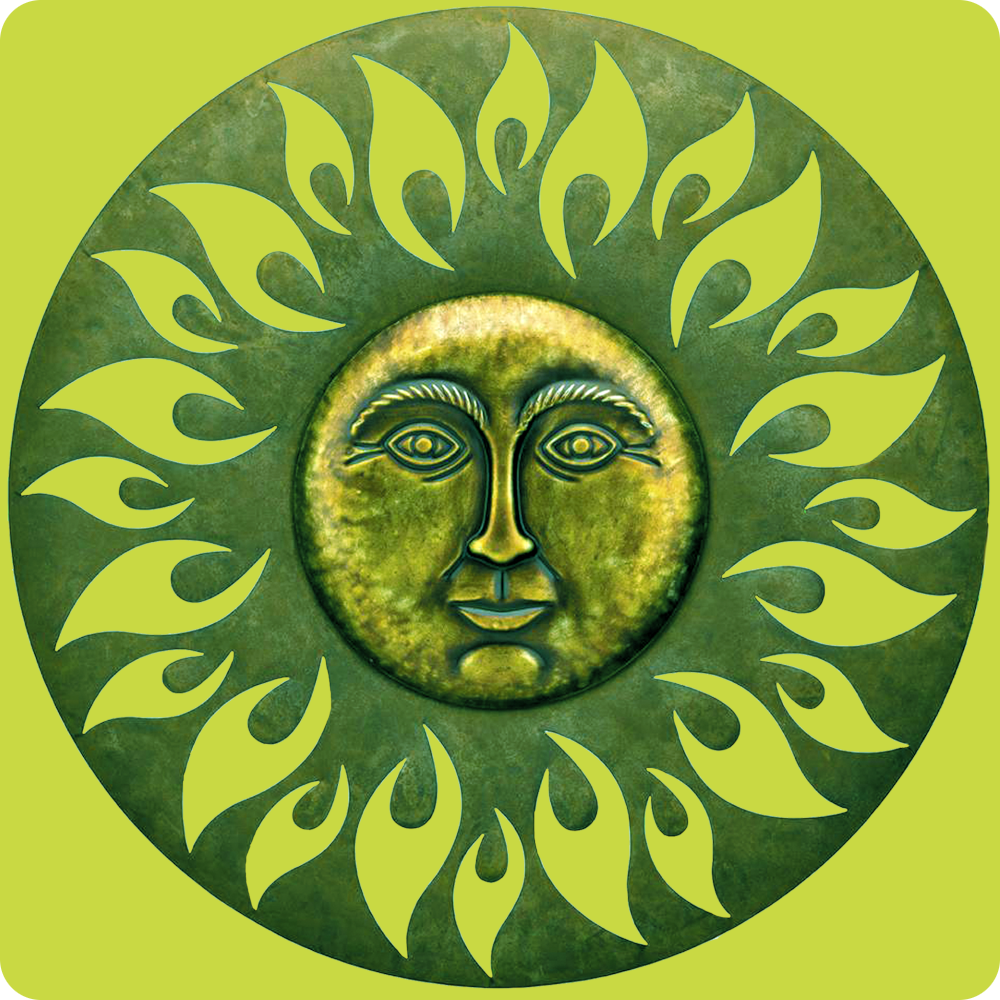
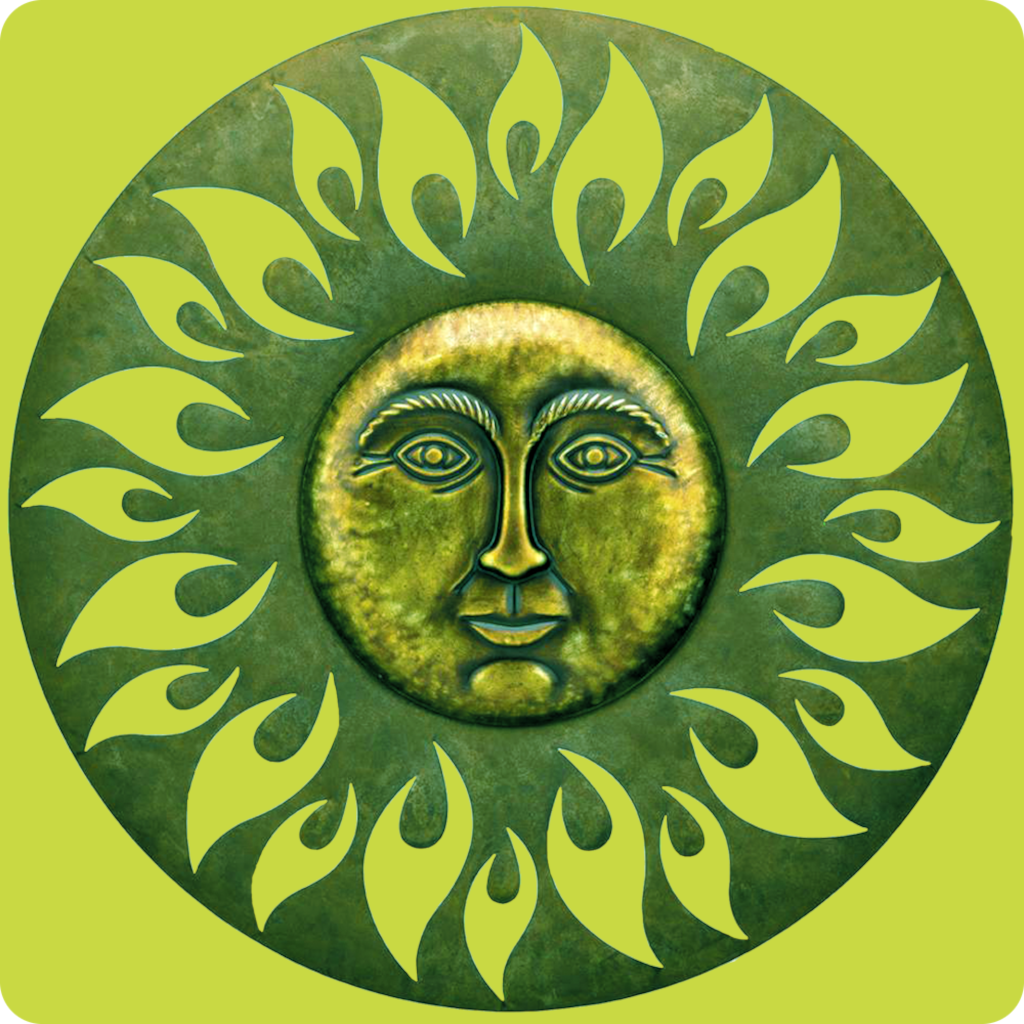
Playing with theme

diff --git a/app/(tabs)/index.tsx b/app/(tabs)/index.tsx
@@ -1,5 +1,5 @@
 import { Image } from "expo-image";
-import { Platform, StyleSheet } from "react-native";
+import { StyleSheet } from "react-native";
 
 import { HelloWave } from "@/components/HelloWave";
 import ParallaxScrollView from "@/components/ParallaxScrollView";
@@ -8,7 +8,7 @@ import { ThemedView } from "@/components/ThemedView";
 
 export default function HomeScreen() {
     return (
-        <ParallaxScrollView headerBackgroundColor={{ light: "#7b8b24", dark: "#18361c" }} headerImage={<Image source={require("@/assets/images/Mission Branding_for-dk-bg.png")} style={styles.reactLogo} />}>
+        <ParallaxScrollView headerBackgroundColor={{ light: "", dark: "" }} headerImage={<Image source={require("@/assets/images/Mission Branding_white.png")} style={styles.reactLogo} />}>
             <ThemedView style={styles.titleContainer}>
                 <ThemedText type="title">
                     Welcome to Sunstone Garden!
@@ -16,18 +16,8 @@ export default function HomeScreen() {
                 </ThemedText>
             </ThemedView>
             <ThemedView style={styles.stepContainer}>
-                <ThemedText type="subtitle">Step 1: Try it</ThemedText>
-                <ThemedText>
-                    Edit <ThemedText type="defaultSemiBold">app/(tabs)/index.tsx</ThemedText> to see changes. Press{" "}
-                    <ThemedText type="defaultSemiBold">
-                        {Platform.select({
-                            ios: "cmd + d",
-                            android: "cmd + m",
-                            web: "F12",
-                        })}
-                    </ThemedText>{" "}
-                    to open developer tools.
-                </ThemedText>
+                <ThemedText type="subtitle">Garden Services</ThemedText>
+                <ThemedText>Your personal Green Thumb!</ThemedText>
             </ThemedView>
             <ThemedView style={styles.stepContainer}>
                 <ThemedText type="subtitle">Step 2: Explore</ThemedText>

diff --git a/app/(tabs)/menu.tsx b/app/(tabs)/menu.tsx
@@ -1,0 +1,42 @@
+import { Image } from 'expo-image';
+import { StyleSheet } from 'react-native';
+
+import ParallaxScrollView from '@/components/ParallaxScrollView';
+import { ThemedText } from '@/components/ThemedText';
+import { ThemedView } from '@/components/ThemedView';
+import { useColorScheme } from '@/hooks/useColorScheme';
+
+export default function TabTwoScreen() {
+  return (
+    <ParallaxScrollView
+      headerBackgroundColor={{ light: '', dark: '' }}
+      headerImage={<Image source={require("@/assets/images/AppIcon.png")} style={{ width: "100%", height: "auto" }} />
+      }>
+      <ThemedView style={styles.titleContainer}>
+        <ThemedText type="title">
+          Sunstone Garden
+        </ThemedText>
+      </ThemedView>
+    </ParallaxScrollView>
+  );
+
+  function headerColor() {
+        const theme = useColorScheme() ?? "dark";
+        return `Colors.${theme}.background`;
+  }
+}
+
+
+const styles = StyleSheet.create({
+  headerImage: {
+    // color: headerColor(),
+    color: "#000",
+    bottom: -90,
+    left: -35,
+    position: 'absolute',
+  },
+  titleContainer: {
+    flexDirection: 'row',
+    gap: 8,
+  },
+});

diff --git a/constants/Colors.ts b/constants/Colors.ts
@@ -3,24 +3,24 @@
  * There are many other ways to style your app. For example, [Nativewind](https://www.nativewind.dev/), [Tamagui](https://tamagui.dev/), [unistyles](https://reactnativeunistyles.vercel.app), etc.
  */
 
-const tintColorLight = '#0a7ea4';
-const tintColorDark = '#fff';
+const tintColorLight = '#b8dacf';
+const tintColorDark = '#7b8b24';
 
 export const Colors = {
   light: {
-    text: '#11181C',
-    background: '#fff',
+    text: '#18361c',
+    background: '#b8dacf',
     tint: tintColorLight,
-    icon: '#687076',
-    tabIconDefault: '#687076',
+    icon: '#3c6027',
+    tabIconDefault: '#18361c',
     tabIconSelected: tintColorLight,
   },
   dark: {
-    text: '#ECEDEE',
-    background: '#151718',
+    text: '#b8dacf',
+    background: '#18361c',
     tint: tintColorDark,
-    icon: '#9BA1A6',
-    tabIconDefault: '#9BA1A6',
+    icon: '#c9d943',
+    tabIconDefault: '#c9d943',
     tabIconSelected: tintColorDark,
   },
 };

diff --git a/components/ui/IconSymbol.tsx b/components/ui/IconSymbol.tsx
@@ -1,7 +1,7 @@
 // Fallback for using MaterialIcons on Android and web.
 
 import MaterialIcons from '@expo/vector-icons/MaterialIcons';
-import { SymbolWeight, SymbolViewProps } from 'expo-symbols';
+import { SymbolViewProps, SymbolWeight } from 'expo-symbols';
 import { ComponentProps } from 'react';
 import { OpaqueColorValue, type StyleProp, type TextStyle } from 'react-native';
 
@@ -18,6 +18,7 @@ const MAPPING = {
   'paperplane.fill': 'send',
   'chevron.left.forwardslash.chevron.right': 'code',
   'chevron.right': 'chevron-right',
+  'menucard.fill': 'menu',
 } as IconMapping;
 
 /**

diff --git a/app/(tabs)/_layout.tsx b/app/(tabs)/_layout.tsx
@@ -34,10 +34,10 @@ export default function TabLayout() {
         }}
       />
       <Tabs.Screen
-        name="explore"
+        name="menu"
         options={{
-          title: 'Explore',
-          tabBarIcon: ({ color }) => <IconSymbol size={28} name="paperplane.fill" color={color} />,
+          title: 'Menu',
+          tabBarIcon: ({ color }) => <IconSymbol size={28} name="menucard.fill" color={color} />,
         }}
       />
     </Tabs>
